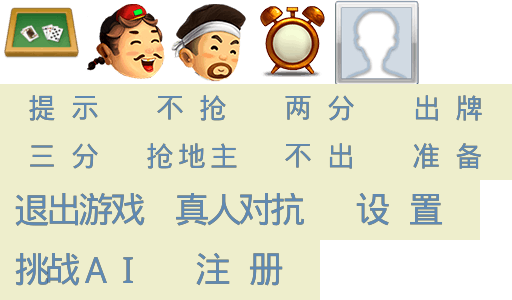
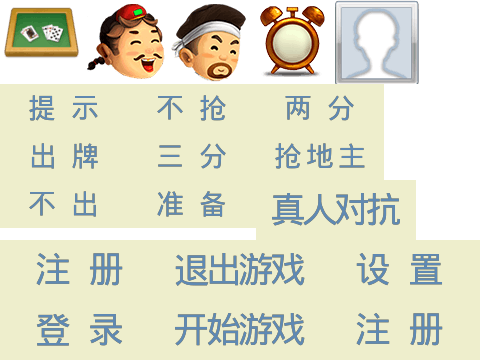
简化登录流程

diff --git a/doudizhu/static/js/boot.js b/doudizhu/static/js/boot.js
@@ -162,58 +162,33 @@ PG.Login = {
         let bg = this.game.add.sprite(this.game.width / 2, 0, 'bg');
         bg.anchor.set(0.5, 0);
 
-        let style = {
-            font: '24px Arial', fill: '#000', width: 300, padding: 12,
-            borderWidth: 1, borderColor: '#c8c8c8', borderRadius: 2,
-            textAlign: 'center', placeHolder: '姓名'
-        };
         this.game.add.plugin(PhaserInput.Plugin);
+        const style = {
+            font: '32px Arial', fill: '#000', width: 300, padding: 12,
+            borderWidth: 1, borderColor: '#c8c8c8', borderRadius: 2,
+            textAlign: 'center', placeHolder: '请输入用户名'
+        };
+        this.username = this.game.add.inputField((this.game.world.width - 300) / 2, this.game.world.centerY - 40, style);
 
-        this.username = this.game.add.inputField((this.game.world.width - 300) / 2, this.game.world.centerY - 160, style);
-
-        style.placeHolder = '密码';
-        this.password = this.game.add.inputField((this.game.world.width - 300) / 2, this.game.world.centerY - 90, style);
-
-        style.placeHolder = '再次输入密码';
-        this.passwordAgain = this.game.add.inputField((this.game.world.width - 300) / 2, this.game.world.centerY - 15, style);
-
-        const errorStyle = {font: "22px Arial", fill: "#f00", align: "center"};
-        this.errorText = this.game.add.text(this.game.world.centerX, this.game.world.centerY + 45, '', errorStyle);
+        this.errorText = this.game.add.text(this.game.world.centerX, this.game.world.centerY + 24, '', {font: "24px Arial", fill: "#f00", align: "center"});
         this.errorText.anchor.set(0.5, 0);
 
-        let login = this.game.add.button(this.game.world.centerX, this.game.world.centerY + 100, 'btn', this.onLogin, this, 'register.png', 'register.png', 'register.png');
+        let login = this.game.add.button(this.game.world.centerX, this.game.world.centerY + 100, 'btn', this.onLogin, this, 'login.png', 'login.png', 'login.png');
         login.anchor.set(0.5);
     },
 
     onLogin: function () {
+        this.errorText.text = '';
         if (!this.username.value) {
             this.username.startFocus();
             this.errorText.text = '请输入用户名';
             return;
         }
-        if (!this.password.value) {
-            this.password.startFocus();
-            this.errorText.text = '请输入密码';
-            return;
-        }
-        if (!this.passwordAgain.value) {
-            this.passwordAgain.startFocus();
-            this.errorText.text = '请再次输入密码';
-            return;
-        }
-        if (this.password.value !== this.passwordAgain.value) {
-            this.errorText.text = "两次输入的密码不一致";
-            return;
-        }
-
         let that = this;
         const payload = {
-            "email": this.username.value,
             "username": this.username.value,
-            "password": this.password.value,
-            "password_repeat": this.password.value
         };
-        post('/signup', payload, function(status, response) {
+        post('/login', payload, function(status, response) {
             if (status === 200) {
                 PG.playerInfo = response;
                 that.state.start('MainMenu');

diff --git a/doudizhu/apps/account/views.py b/doudizhu/apps/account/views.py
@@ -19,21 +19,16 @@ class IndexHandler(RequestHandler):
 
 
 class LoginHandler(RestfulHandler, JwtMixin):
-    required_fields = ('username', 'password')
+    required_fields = ('username', )
 
     async def post(self):
-        email = self.json.get('username')
-        password = self.json.get("password")
+        username = self.json.get('username')
 
-        account = await self.db.fetchone('SELECT id, username, password FROM account WHERE email=%s', email)
+        account = await self.db.fetchone('SELECT id, username, avatar FROM account WHERE username=%s', username)
         if not account:
-            self.send_error(400, reason='This email address does not exist.')
-            return
-
-        verify_pass = await self.run_in_executor(bcrypt.checkpw, password.encode('utf8'),
-                                                 account.get('password').encode('utf8'))
-        if not verify_pass:
-            self.send_error(400, reason='Incorrect username or password.')
+            uid = await self.db.insert(
+                'INSERT INTO account (openid, username, sex, avatar) VALUES (%s,%s,%s,%s)', username, username, 1, '')
+            account = {'id': uid, 'username': username}
 
         uid, username = account.get('id'), account.get('username')
         self.set_secure_cookie('user', json_encode({'uid': uid, 'username': username}))
@@ -59,38 +54,6 @@ class UserInfoHandler(RestfulHandler):
         uid, username = account.get('id'), account.get('username')
         self.set_secure_cookie('user', json_encode({'uid': uid, 'username': username}))
         self.write({'uid': uid, 'username': username, 'room': Storage.find_player_room_id(uid)})
-
-
-class SignupHandler(RestfulHandler):
-    required_fields = ('email', 'username', 'password', 'password_repeat')
-
-    async def post(self):
-        email = self.json.get('email')
-        username = self.json.get('username')
-        password = self.json.get('password')
-        password_repeat = self.json.get('password_repeat')
-        if password != password_repeat:
-            self.send_error(400, reason='The password does not match')
-            return
-
-        try:
-            uid = await self.create_account(username, email, password)
-            self.set_secure_cookie('user', json_encode({'uid': uid, 'username': username}))
-            self.write({'uid': uid, 'username': username})
-        except pymysql.IntegrityError as e:
-            if await self.account_exists(email):
-                self.send_error(400, reason='An account with this email address already exists.')
-            else:
-                raise e
-
-    async def create_account(self, username, email, password) -> int:
-        password = await self.run_in_executor(bcrypt.hashpw, password.encode('utf8'), bcrypt.gensalt())
-        return await self.db.insert('INSERT INTO account (email, username, password, ip_addr) VALUES (%s,%s,%s,%s)',
-                                    email, username, password, self.client_ip)
-
-    async def account_exists(self, email) -> bool:
-        account = await self.db.fetchone('SELECT id FROM account WHERE email=%s', email)
-        return True if account else False
 
 
 class LogoutHandler(RestfulHandler):

diff --git a/doudizhu/captcha.py b/doudizhu/captcha.py
@@ -48,11 +48,12 @@ def generate_button(params):
 
 if __name__ == '__main__':
     db = (
-        ('quick', '挑战AI', (160, 60), 36),
+        ('quick', '开始游戏', (160, 60), 36),
         ('start', '真人对抗', (160, 60), 36),
         ('exit', '退出游戏', (160, 60), 36),
         ('setting', '设置', (160, 60), 36),
-        ('register', '注册', (160, 60), 36),
+        ('signup', '注册', (160, 60), 36),
+        ('login', '登录', (160, 60), 36),
 
         ('score_0', '不抢', (128, 48), 28),
         ('score_1', '抢地主', (128, 48), 28),
